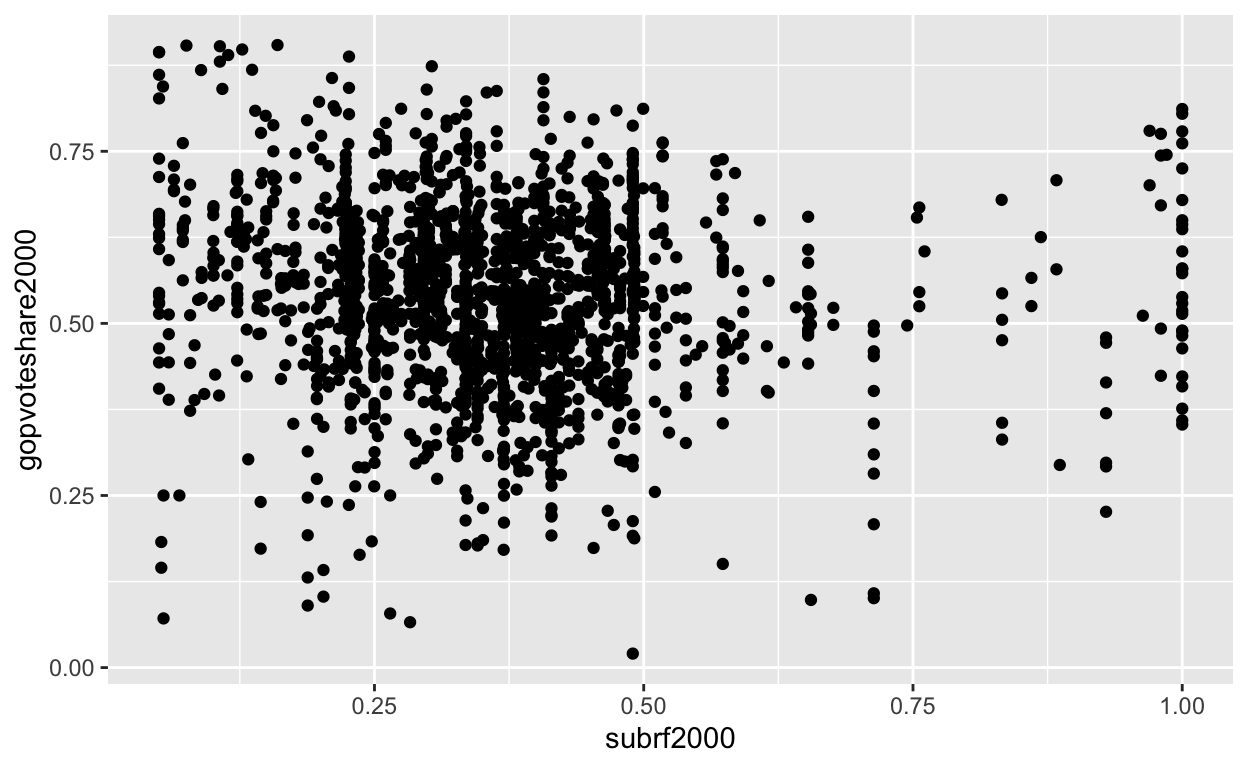
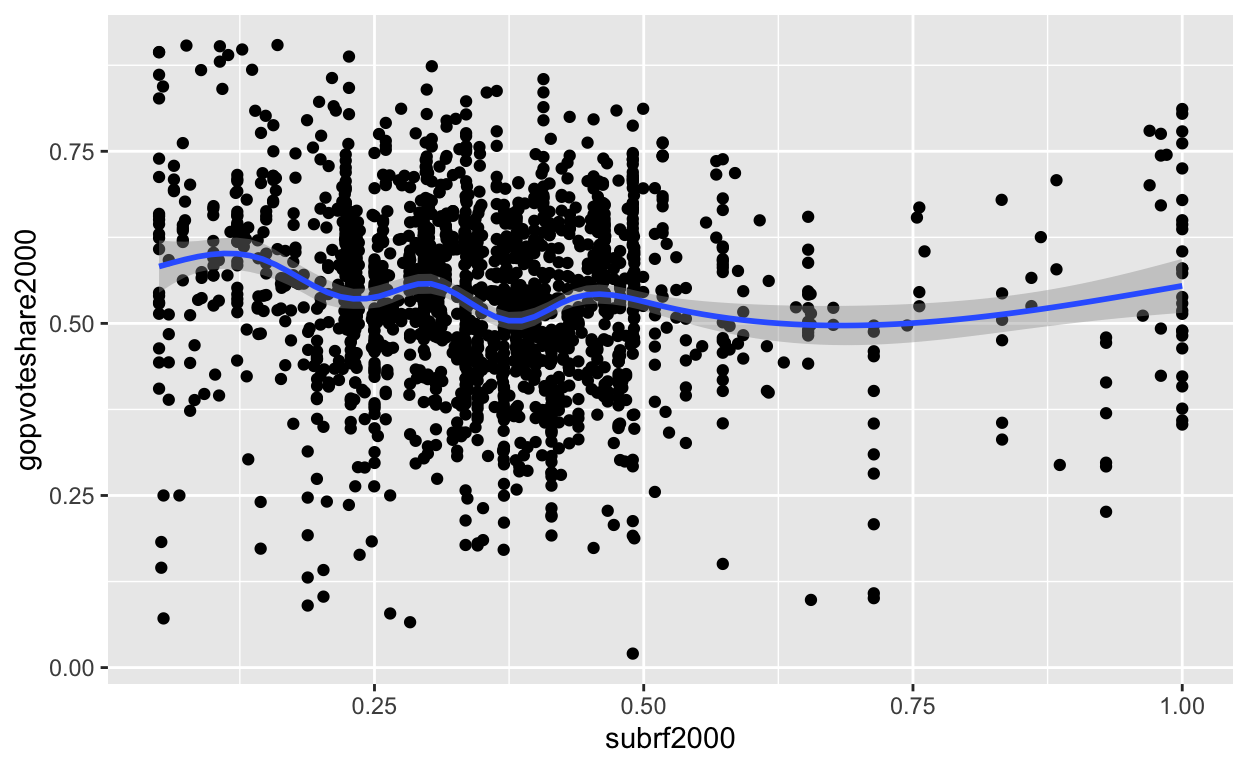
comit

Changed region(s): [[0.125, 0.3125, 0.9688, 0.4688]]

diff --git a/index.html b/index.html
@@ -1549,7 +1549,7 @@ code span.wa { color: #5e5e5e; font-style: italic; } /* Warning */
 <span>  <span class='fu'><a href='https://dplyr.tidyverse.org/reference/filter.html'>filter</a></span><span class='op'>(</span><span class='op'>!</span><span class='va'>subrf2000</span> <span class='op'>==</span> <span class='fl'>0.00000000</span> <span class='op'>)</span> <span class='op'>|&gt;</span></span>
 <span>  <span class='fu'><a href='https://dplyr.tidyverse.org/reference/select.html'>select</a></span><span class='op'>(</span><span class='va'>state</span>,<span class='va'>town</span>,<span class='va'>subrf2000</span>,<span class='va'>gopvoteshare1996</span>,<span class='va'>gopvoteshare2000</span> <span class='op'>)</span> </span>
 <span></span>
-<span><span class='fu'><a href='https://ggplot2.tidyverse.org/reference/ggplot.html'>ggplot</a></span><span class='op'>(</span>data <span class='op'>=</span> <span class='va'>foxnews1</span>, mapping <span class='op'>=</span> <span class='fu'><a href='https://ggplot2.tidyverse.org/reference/aes.html'>aes</a></span><span class='op'>(</span>x <span class='op'>=</span> <span class='va'>subrf2000</span>, y <span class='op'>=</span> <span class='va'>gopvoteshare2000</span><span class='op'>)</span><span class='op'>)</span> <span class='op'>+</span> <span class='fu'><a href='https://ggplot2.tidyverse.org/reference/geom_point.html'>geom_point</a></span><span class='op'>(</span><span class='op'>)</span></span></code></pre>
+<span><span class='fu'><a href='https://ggplot2.tidyverse.org/reference/ggplot.html'>ggplot</a></span><span class='op'>(</span>data <span class='op'>=</span> <span class='va'>foxnews1</span>, mapping <span class='op'>=</span> <span class='fu'><a href='https://ggplot2.tidyverse.org/reference/aes.html'>aes</a></span><span class='op'>(</span>x <span class='op'>=</span> <span class='va'>subrf2000</span>, y <span class='op'>=</span> <span class='va'>gopvoteshare2000</span><span class='op'>)</span><span class='op'>)</span> <span class='op'>+</span> <span class='fu'><a href='https://ggplot2.tidyverse.org/reference/geom_point.html'>geom_point</a></span><span class='op'>(</span><span class='op'>)</span> <span class='op'>+</span> <span class='fu'><a href='https://ggplot2.tidyverse.org/reference/geom_smooth.html'>geom_smooth</a></span><span class='op'>(</span><span class='op'>)</span></span></code></pre>
 </div>
 <p><img src="index_files/figure-html5/unnamed-chunk-2-1.png" width="624" /></p>
 </div>
